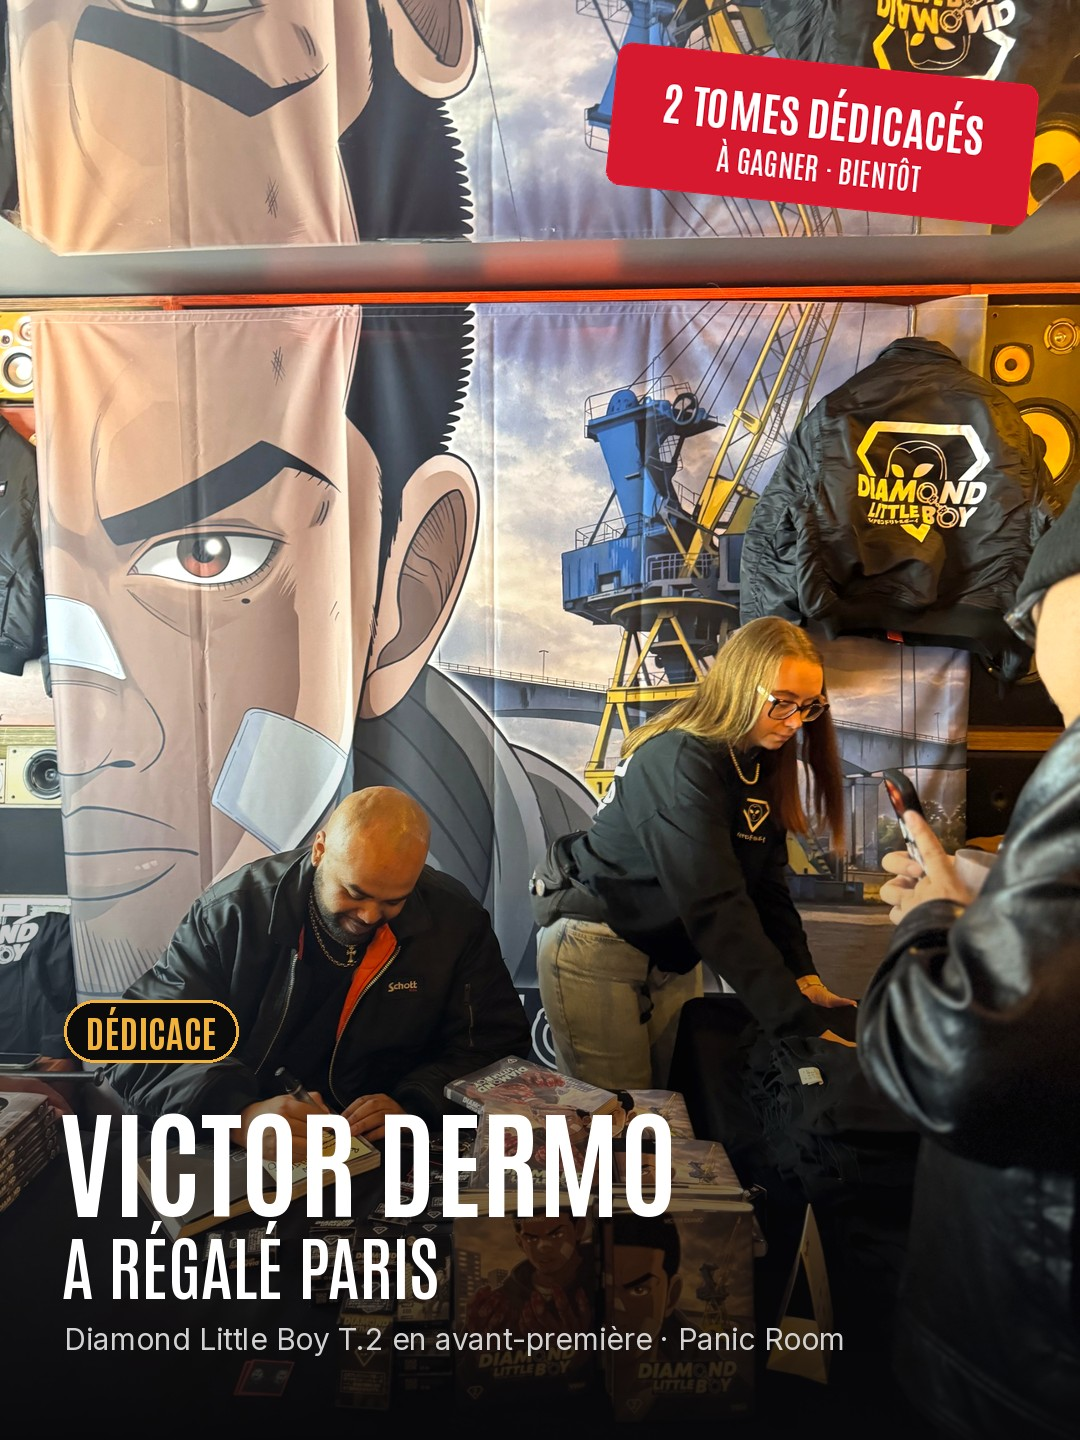
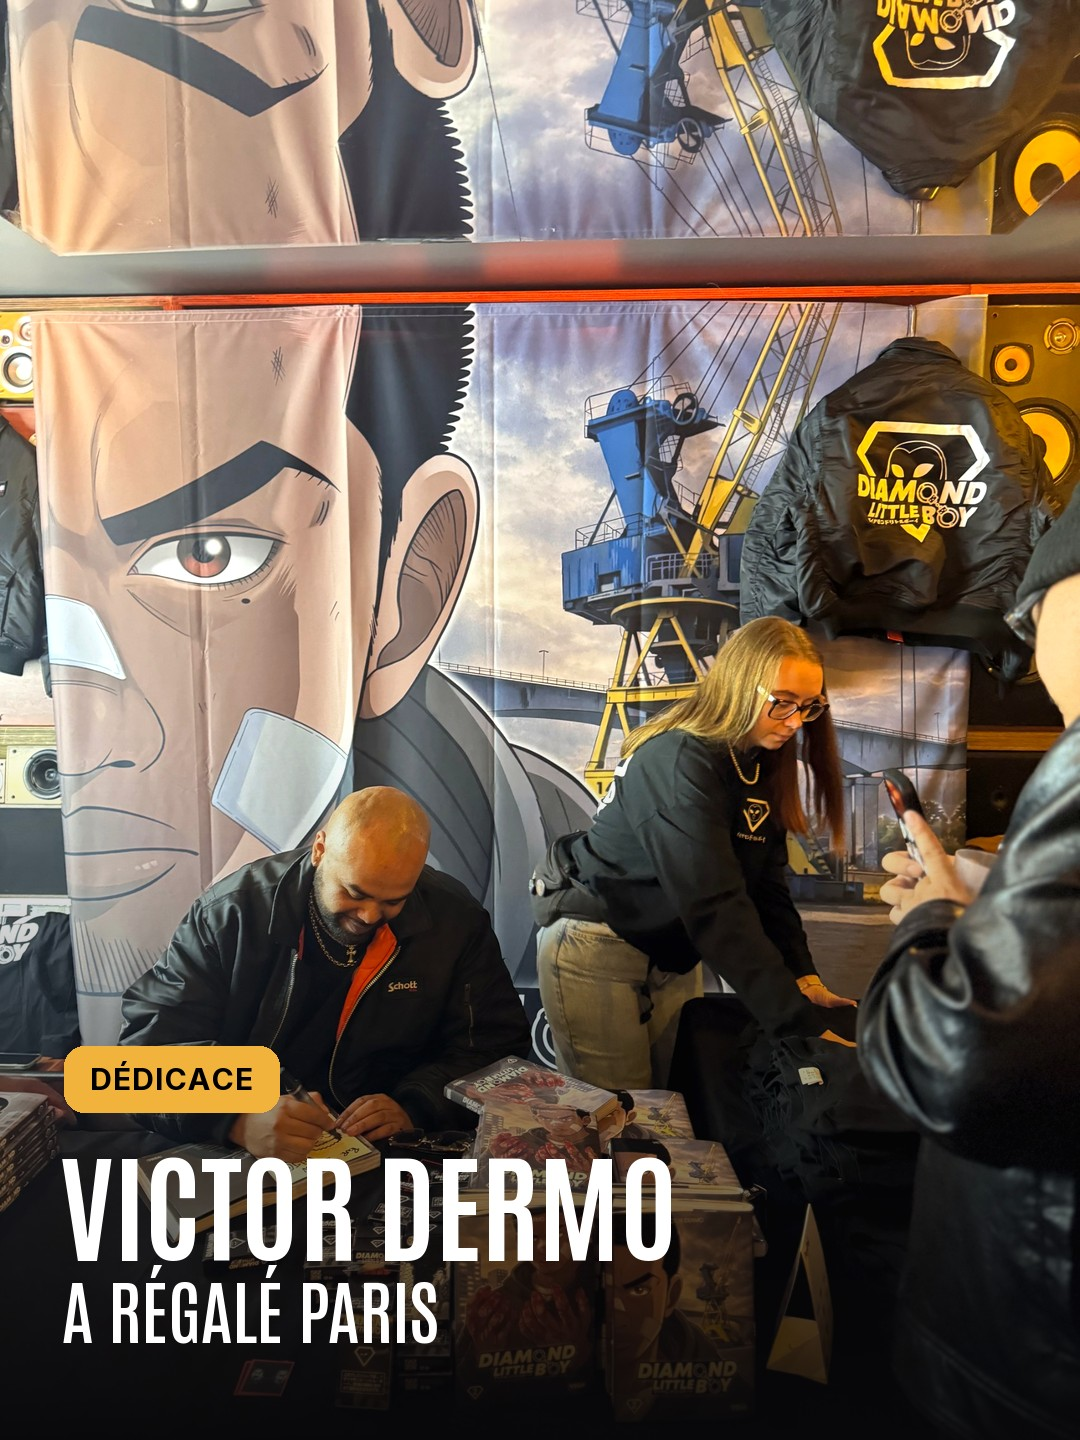
Aperçu admin des news non publiées sur le site (/actus/?apercu=id), visuel réseaux DLB sans tampon
Claude-Session: https://claude.ai/code/session_01ShgbxL6GpEPzbudUpDfTjj

Changed region(s): [[0.0611, 0.6875, 0.6417, 0.9375], [0.55, 0.0312, 0.9778, 0.1562], [0.6417, 0.9062, 0.7639, 0.9375]]

diff --git a/actus/index.html b/actus/index.html
@@ -302,7 +302,9 @@ body{background:#000}
   var FOLLOW = false;
   var root = document.getElementById("na"), N = null, ME = null, ST = {}, CM = [], STORED = true, ALL = [], CTX = null;
   var DESK = matchMedia("(min-width:980px)");
-  var key = (location.pathname.replace(/^\/actus\/?/, "").replace(/\/$/, "").split("-").pop() || new URLSearchParams(location.search).get("id") || "").toLowerCase();
+  // Aperçu admin d'une news pas encore publiée : /actus/?apercu=<id> (Will, 29/10/2026).
+  var AP = (new URLSearchParams(location.search).get("apercu") || "").replace(/-/g, "").toLowerCase();
+  var key = AP || (location.pathname.replace(/^\/actus\/?/, "").replace(/\/$/, "").split("-").pop() || new URLSearchParams(location.search).get("id") || "").toLowerCase();
   var get = function (u) { return fetch(u, { credentials: "same-origin" }).then(function (r) { return r.ok ? r.json() : null; }).catch(function () { return null; }); };
   var dLong = function (d) { return d ? new Date(d + "T12:00:00").toLocaleDateString("fr-FR", { day: "numeric", month: "long", year: "numeric" }) : ""; };
   var ago = function (d) { var m = Math.round((Date.now() - new Date(d)) / 6e4); return m < 60 ? Math.max(1, m) + " min" : m < 1440 ? Math.round(m / 60) + " h" : Math.round(m / 1440) + " j"; };
@@ -675,10 +677,10 @@ body{background:#000}
 
   // Affichage immédiat avec les news déjà chargées par l'accueil (gardées dans le téléphone), puis mise à jour par le réseau.
   var trouve = function (items) { return items.filter(function (it) { return key.length >= 6 && it.id.slice(-key.length) === key; })[0] || items.filter(function (it) { return it.id.indexOf(key) === 0; })[0]; };
-  try { ALL = JSON.parse(localStorage.getItem("fg-news") || "[]"); var vite = trouve(ALL); if (vite) { N = vite; render(); } } catch (e) {}
-  get("/api/news").then(function (j) {
+  try { if (!AP) { ALL = JSON.parse(localStorage.getItem("fg-news") || "[]"); var vite = trouve(ALL); if (vite) { N = vite; render(); } } } catch (e) {}
+  get(AP ? "/api/news?apercu=" + AP : "/api/news").then(function (j) {
     var items = (j && j.items) || []; ALL = items;
-    try { if (items.length) localStorage.setItem("fg-news", JSON.stringify(items)); } catch (e) {}
+    try { if (items.length && !AP) localStorage.setItem("fg-news", JSON.stringify(items)); } catch (e) {}
     var avant = N;
     N = items.filter(function (it) { return key.length >= 6 && it.id.slice(-key.length) === key; })[0] || items.filter(function (it) { return it.id.indexOf(key) === 0; })[0]; // fin de l'id (unique) ; le début pour les anciens liens
     if (!N && avant && !items.length) N = avant; // réseau coupé : on garde la version déjà affichée
@@ -688,7 +690,7 @@ body{background:#000}
     get("/api/actu?id=" + N.id).then(function (c) { if (c && !c.error) { CTX = c; render();
       if (c.serie) get("/api/follow?s=" + encodeURIComponent(c.serie.slug)).then(function (f) { if (f && f.ok) { FOLLOW = !!f.on; render(); } }); } });
     // Une vue par news et par session
-    try { if (!sessionStorage.getItem("v-" + N.id)) { sessionStorage.setItem("v-" + N.id, "1"); fetch("/api/stats", { method: "POST", headers: { "content-type": "application/json" }, body: JSON.stringify({ id: N.id, act: "view" }) }); } } catch (e) {}
+    try { if (!AP && !sessionStorage.getItem("v-" + N.id)) { sessionStorage.setItem("v-" + N.id, "1"); fetch("/api/stats", { method: "POST", headers: { "content-type": "application/json" }, body: JSON.stringify({ id: N.id, act: "view" }) }); } } catch (e) {}
     get("/api/stats?ids=" + N.id).then(function (s) { if (s && s.stats) { ST = s.stats[N.id] || {}; STORED = s.stored !== false; render(); } });
     get("/api/comments?id=" + N.id).then(function (c) { if (c) { CM = c.items || []; ADMC = !!c.admin; STORED = c.stored !== false; render(); var o = document.getElementById("cm"); if (o && !o.hidden) sheet(); } });
   });

diff --git a/functions/api/news.js b/functions/api/news.js
@@ -6,6 +6,7 @@ import { text, date, rel, num, queryAll, cached } from "../../lib/notion.js";
 import { categorie, categoriesDe } from "../../lib/categories.js";
 import { sourceName } from "../../lib/source.js";
 import { credits, estFR } from "../../lib/credit.js";
+import { isAdmin } from "../../lib/admin.js";
 const AUTEURS = { dataSource: "22b1c097-0ff0-496c-9540-26953780c522", database: "bbefc8a1431247788b2445de4265d36b" };
 
 const VEILLE = { dataSource: "d748cac9-fdb0-4d44-87e8-cef34669f0b2", database: "50ef27c3205646baa1be24f4a6fc25d3" };
@@ -26,11 +27,18 @@ export async function onRequestGet({ env, request, waitUntil }) {
   // Date de publication sur le site (Will, 22/10/2026) : prioritaire sur la date de repérage pour l'ordre et la date affichée.
   const pubLe = p => (p["Publiée le"] && p["Publiée le"].date && p["Publiée le"].date.start) || "";
   const jourParis = iso => new Intl.DateTimeFormat("fr-CA", { timeZone: "Europe/Paris" }).format(new Date(iso));
-  return cached(request, waitUntil, "/api/news?v=20", 600, async () => {
-    const rows = await queryAll(env.NOTION_TOKEN, { ...VEILLE, body: {
+  // Aperçu d'une news pas encore publiée (Will, 29/10/2026) : /api/news?apercu=<id>, réservé aux admins, jamais en cache.
+  const apercu = (new URL(request.url).searchParams.get("apercu") || "").replace(/-/g, "");
+  if (apercu) {
+    if (!/^[0-9a-f]{32}$/.test(apercu) || !(await isAdmin(request, env).catch(() => false))) return new Response(JSON.stringify({ error: "Réservé aux admins" }), { status: 403 });
+    const pg = await page(env.NOTION_TOKEN, apercu);
+    return new Response(JSON.stringify(await bati(pg && !pg.archived ? [pg] : [])), { headers: { "content-type": "application/json; charset=utf-8", "cache-control": "no-store" } });
+  }
+  return cached(request, waitUntil, "/api/news?v=20", 600, async () => bati(await queryAll(env.NOTION_TOKEN, { ...VEILLE, body: {
       filter: { property: "Statut", select: { equals: "Publié sur le site" } },
       sorts: [{ property: "Date de la news", direction: "descending" }],
-    } });
+    } })));
+  async function bati(rows) {
     const ids = [...new Set(rows.flatMap(r => rel(r.properties["Série"])))];
     const series = {};
     await Promise.all(ids.map(async id => {
@@ -119,5 +127,5 @@ export async function onRequestGet({ env, request, waitUntil }) {
     // sid : la série liée (Studio Quoi de neuf : dernier tome paru pour les news « Tomes en circulation », Will 26/10/2026).
     items.forEach(i => { if (/\/api\/ogcard\//.test(i.cover || "") || i._b) i.carte = true; else if (!i.fond && !i.chiffre) i.vignette = ""; delete i._b; if (i._sid) i.sid = String(i._sid).replace(/-/g, ""); delete i._extrait; delete i._image; delete i._sid; delete i._n; delete i._pays; delete i._t; });
     return { items };
-  });
+  }
 }

diff --git a/hq/news/index.html b/hq/news/index.html
@@ -335,7 +335,7 @@ img{display:block}a{color:inherit}button{font-family:inherit;cursor:pointer}
   function liens() {
     var L = [], fl = '<svg viewBox="0 0 24 24" width="13" height="13" fill="none" stroke="currentColor" stroke-width="2.4" stroke-linecap="round" stroke-linejoin="round"><path d="M7 17 17 7M9 7h8v8"/></svg>';
     var a = function (u, t) { if (/^https?:\/\//.test(u || "")) L.push('<a href="' + esc(u) + '" target="_blank" rel="noopener">' + t + fl + '</a>'); };
-    var news = N.enLigne ? '<a class="lnw" href="' + esc(lienNews()) + '" target="_blank" rel="noopener">Voir la news' + fl + '</a><span class="cp" data-copy-url="1" role="button">' + SV(P.copier, { w: 14, sw: 2.2 }) + 'Copier le lien</span>' : '<span class="lnoff">Lien de la news dès la mise en ligne</span>';
+    var news = N.enLigne ? '<a class="lnw" href="' + esc(lienNews()) + '" target="_blank" rel="noopener">Voir la news' + fl + '</a><span class="cp" data-copy-url="1" role="button">' + SV(P.copier, { w: 14, sw: 2.2 }) + 'Copier le lien</span>' : '<a class="lnw" href="/actus/?apercu=' + esc(String(N.id || "").replace(/-/g, "")) + '" target="_blank" rel="noopener">Aperçu sur le site' + fl + '</a>';
     a(N.src, "Source officielle"); a(N.relais, "Source relais"); a((N.serie && N.serie.essai) || (D.carte && D.carte.lire), "Lecture d'essai"); a("https://www.notion.so/" + String(N.id || "").replace(/-/g, ""), "Notion");
     return '<div class="lnk">' + news + '<span class="lsp"></span>' + L.join("") + '</div>';
   }
